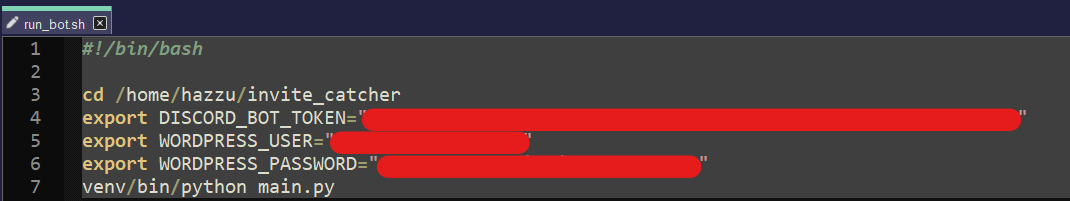
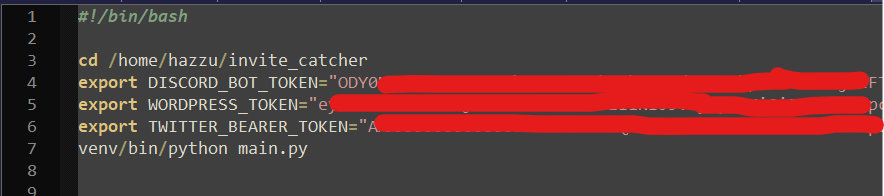
v1

diff --git a/catch_discord_guilds.py b/catch_discord_guilds.py
@@ -1,6 +1,6 @@
 import re
 import discord
-from keys import WP_AUTH_HEADER, WP_AUTH
+from keys import WP_AUTH_HEADER
 import markdown
 import requests
 
@@ -57,10 +57,9 @@ def get_post(guild: discord.Guild):
         'post_type': POST_TYPE,
         'search': guild.id
     }
-    resp = requests.get(url=POSTS_URL, params=payload, auth=WP_AUTH)
+    resp = requests.get(url=POSTS_URL, params=payload, headers=WP_AUTH_HEADER)
     posts = resp.json()
     if posts:
-        print(posts)
         return posts[0]
     else:
         return None

diff --git a/keys.py b/keys.py
@@ -1,10 +1,7 @@
 from os import environ as env
 import base64
-from requests.auth import HTTPBasicAuth
 
 
 DISCORD_BOT_TOKEN = env["DISCORD_BOT_TOKEN"]
-WP_CREDENCIALS = env["WORDPRESS_USER"] + ':' + env["WORDPRESS_PASSWORD"]
-WP_AUTH_HEADER = {'Authorization': 'Basic ' + WP_CREDENCIALS}
-WP_AUTH = (env["WORDPRESS_USER"], env["WORDPRESS_PASSWORD"])
+WP_AUTH_HEADER = {'Authorization': 'Bearer ' + env["WORDPRESS_TOKEN"]}
 TWITTER_BEARER_TOKEN = env["TWITTER_BEARER_TOKEN"]

diff --git a/to.py b/to.py
@@ -1,0 +1,7 @@
+import requests
+url = "https://alphaleaks.com//wp-json/jwt-auth/v1/token"
+params = {"username": "alphaleaks_13giyi", "password": "Freelanceraccount01"}
+
+
+resp = requests.post(url=url, params=params)
+print(resp.json())

diff --git a/README.md b/README.md
@@ -15,8 +15,8 @@ First make sure you are using python 3.8 or higher. Then install the [requiremen
 You will need to set the environment variables:
 ```bash
 export DISCORD_BOT_TOKEN=""
-export WORDPRESS_USER=""
-export WORDPRESS_PASSWORD=""
+export WORDPRESS_TOKEN=""
+export TWITTER_BEARER_TOKEN=""
 ```
 Finally, run the [main](main.py) file:
 ```bash
